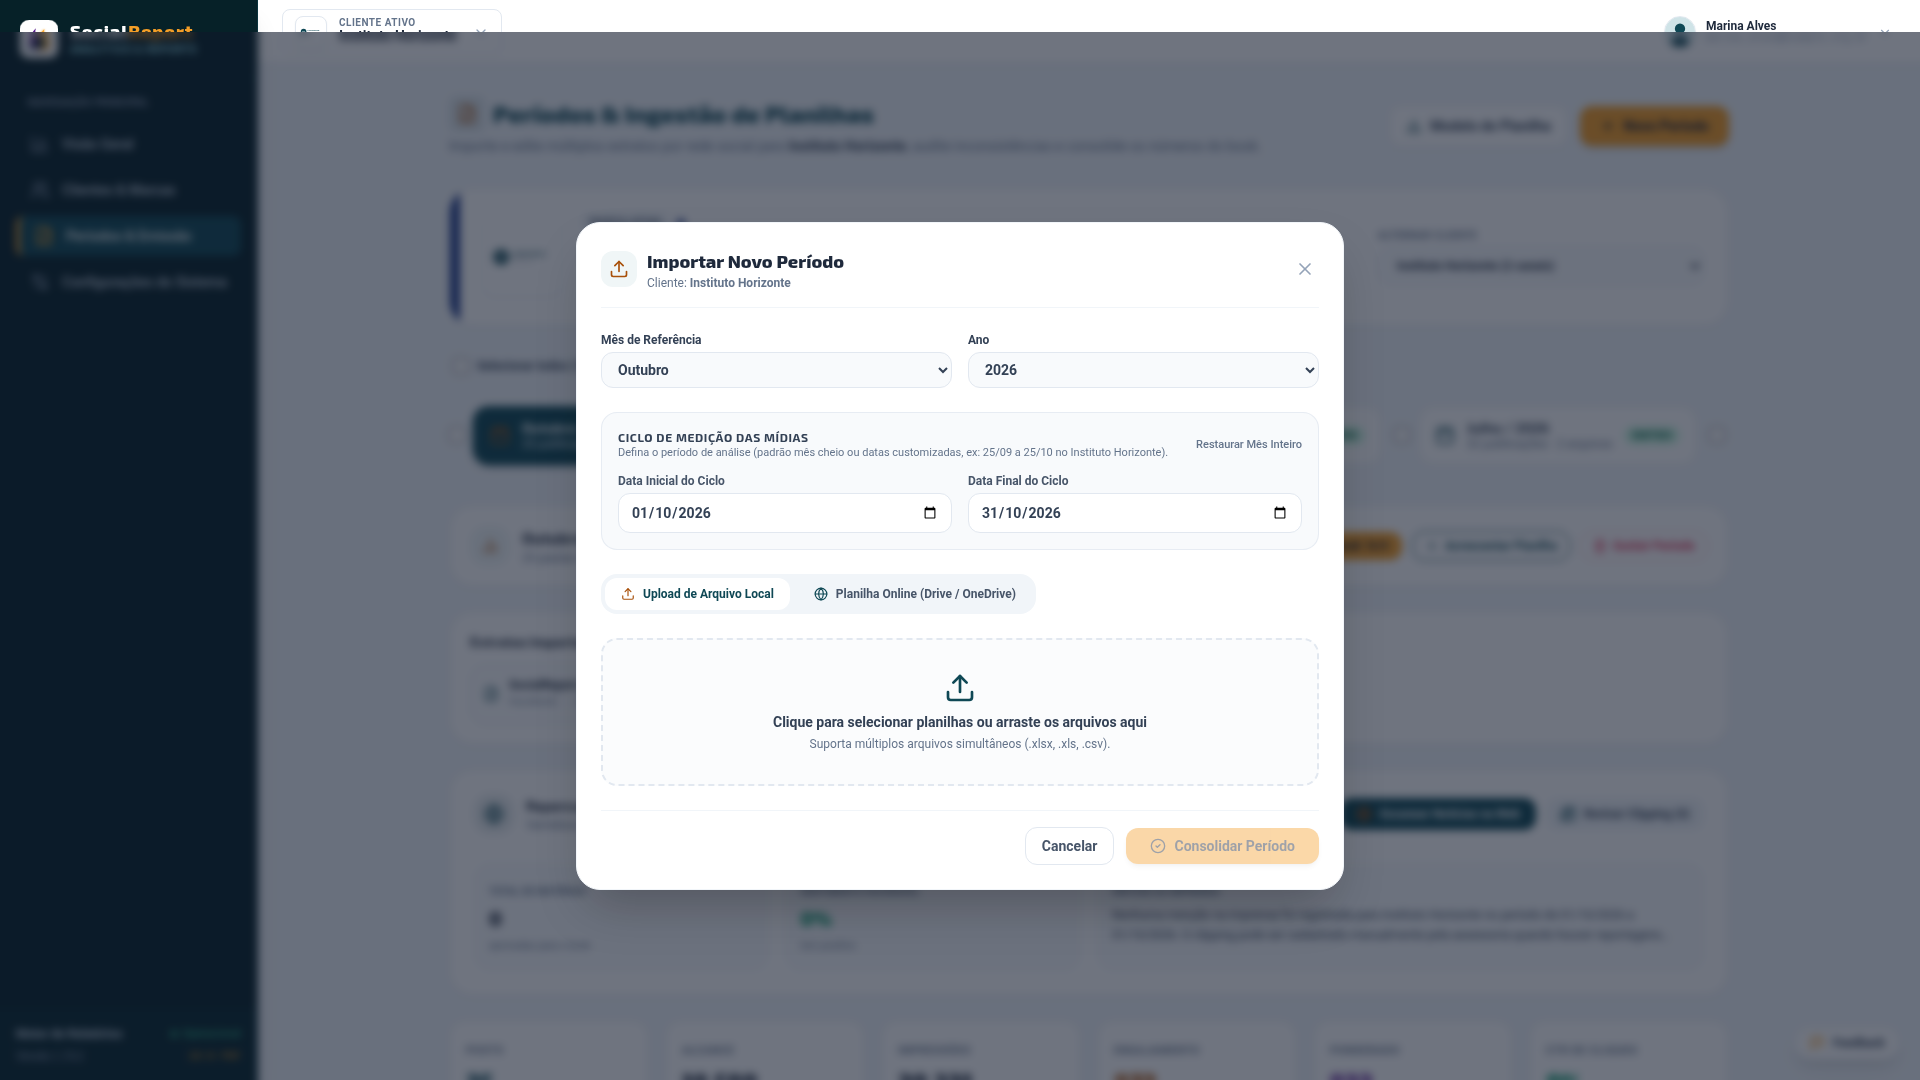
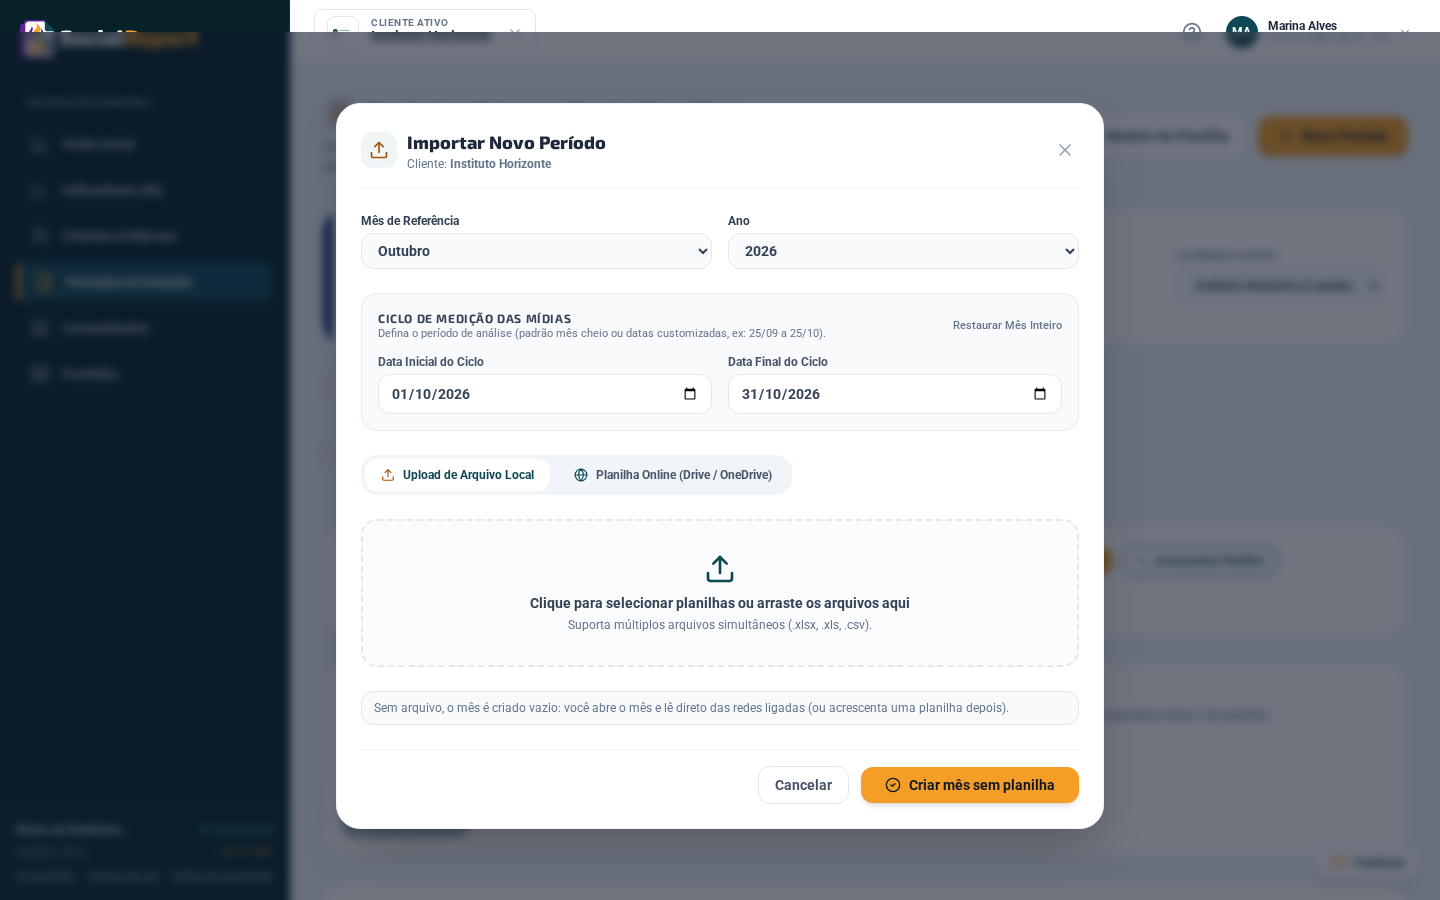
docs(manual): capturas do mês sem planilha, seguidores, cursos, receitas, imprensa e importação (#119)

diff --git a/como-ler-o-relatorio/redes.md b/como-ler-o-relatorio/redes.md
@@ -66,6 +66,8 @@ Acima da tabela há uma escolha de **base**: **todas as publicações** ou **sem
 
 **Decisão que ajuda a tomar:** separar o que se explica pelo **volume** (publicou-se menos) do que se explica pela **qualidade ou pela distribuição** (cada publicação rendeu menos).
 
+![Comparativo geral com a base de seguidores e uma linha por rede, Instagram e Facebook, e a nota das redes que ficaram fora do total]({{ '/assets/img/relatorio/relatorio-24-comparativo-seguidores-por-rede.png' | relative_url }})
+
 **Seguidores.** A tabela traz a **Base de Seguidores** e, quando o cliente tem mais de uma rede com número, uma linha por rede (**Seguidores no Instagram**, **Seguidores no Facebook**). O **total soma só as redes que têm número nos dois meses**: somar uma rede que só existe em um mês inflaria ou derrubaria a variação sem que nada tivesse mudado. As redes que ficaram de fora são citadas numa nota logo abaixo (**"Seguidores: [rede] não tem número nos dois meses e ficou fora do total."**). O número vem do que a equipe informa no fim de cada mês, porque as exportações das redes não trazem o total de seguidores.
 
 Se a tabela traz a frase "Sem dados de Out/25: comparativo com o mesmo mês do ano anterior indisponível", é porque a organização ainda não tem um ano de histórico no sistema. O comparativo com o mesmo mês do ano anterior é o mais justo (ele já inclui as sazonalidades, como as férias e as festas), e aparece assim que os dados existirem.

diff --git a/como-ler-o-relatorio/cursos.md b/como-ler-o-relatorio/cursos.md
@@ -38,7 +38,7 @@ Nos **Top Posts**, o cartão do post ligado a uma campanha dos cursos traz **"Le
 
 **Exemplo.** No slide, o Instagram alcançou 31.140 pessoas e levou 410 visitas à plataforma; 52 chegaram à página de inscrição, o que dá cerca de 11 inscrições estimadas. O LinkedIn, com alcance menor, levou 140 visitas e 21 à página de inscrição. Pelo alcance, o Instagram "ganha"; pela proporção de visitas que chegam à inscrição, o LinkedIn vai melhor, e vale perguntar por quê.
 
-*Captura pendente: o slide "Do post ao curso". As capturas de relatório precisam de um relatório com dados anonimizados de cursos, e o ambiente de teste disponível usa dados reais de um cliente.*
+![Slide Do post ao curso, com alcance, visitas e inscrições por rede, o resumo por curso e os posts que mais levaram aos cursos]({{ '/assets/img/relatorio/relatorio-25-do-post-ao-curso.png' | relative_url }})
 
 > **Leituras erradas comuns**
 >

diff --git a/como-ler-o-relatorio/conclusoes.md b/como-ler-o-relatorio/conclusoes.md
@@ -11,8 +11,7 @@ Um relatório que só mostra números deixa o trabalho mais difícil para você:
 
 ## Imprensa e clipping (só aparece quando há)
 
-> **Captura pendente.** O relatório usado como exemplo neste manual não teve matérias de imprensa no mês, então esta página não aparece nele. A imagem será acrescentada quando houver um relatório com clipping que possa ser anonimizado.
-{: .note }
+![Página Presença na Imprensa e Clipping de Notícias, com menções, percepção de imagem, veículos e a lista de matérias]({{ '/assets/img/relatorio/relatorio-27-imprensa-e-clipping.png' | relative_url }})
 
 **A pergunta que responde:** "O que a imprensa disse sobre a organização este mês, e em que tom?"
 

diff --git a/como-ler-o-relatorio/site.md b/como-ler-o-relatorio/site.md
@@ -124,8 +124,7 @@ A página tem duas partes:
 
 ## Receitas pelo site (só para quem tem loja ou doação online)
 
-> **Captura pendente.** O exemplo usado neste manual é de uma organização sem loja, então esta página não aparece no relatório de exemplo. A imagem será acrescentada quando houver um relatório com receitas que possa ser anonimizado.
-{: .note }
+![Página Receitas pelo Site, com pedidos, receita, valor médio, carrinhos abandonados, receita por categoria e produtos mais vendidos e vistos]({{ '/assets/img/relatorio/relatorio-26-receitas-pelo-site.png' | relative_url }})
 
 **A pergunta que responde:** "As redes e o site estão gerando dinheiro, seja de venda ou de doação?"
 
